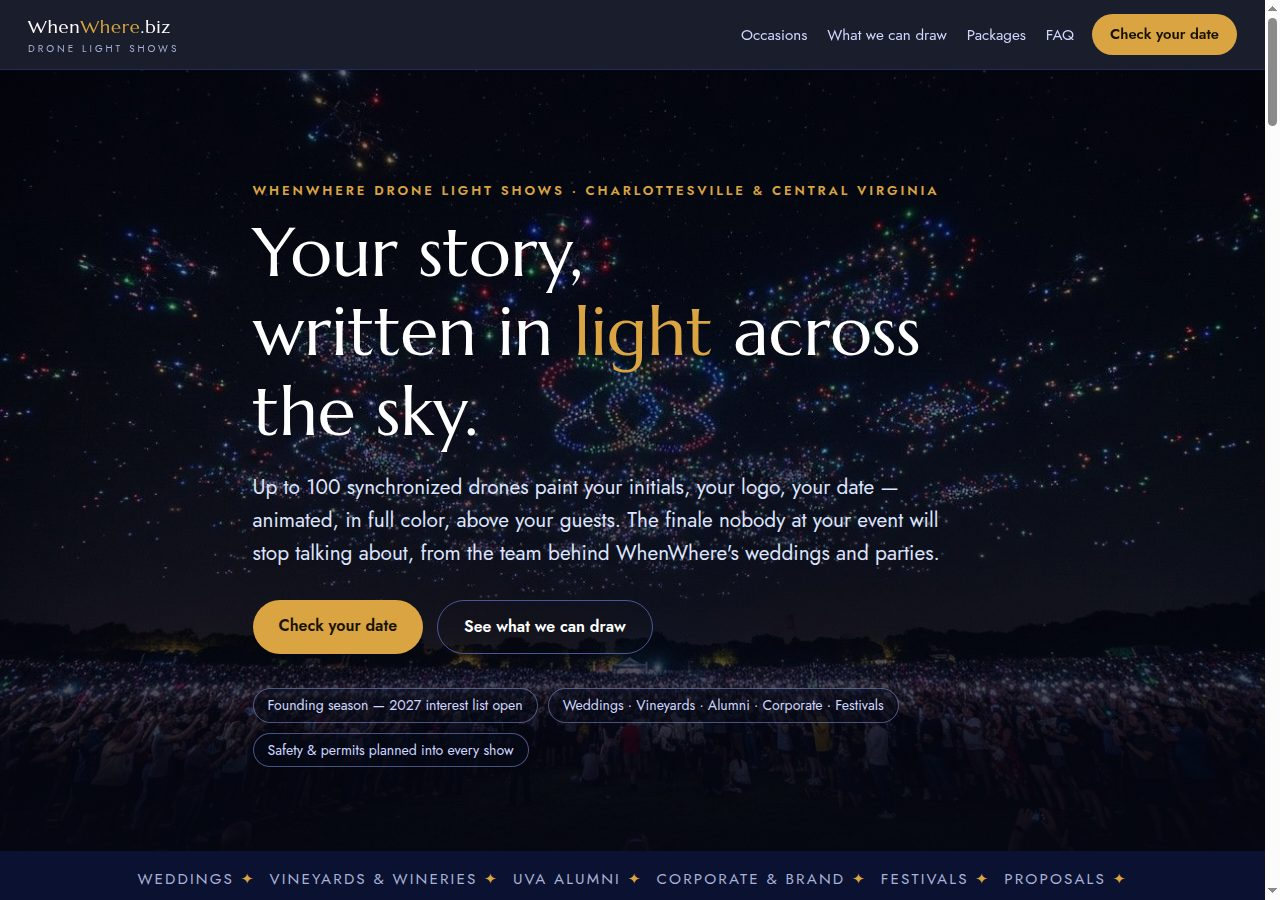
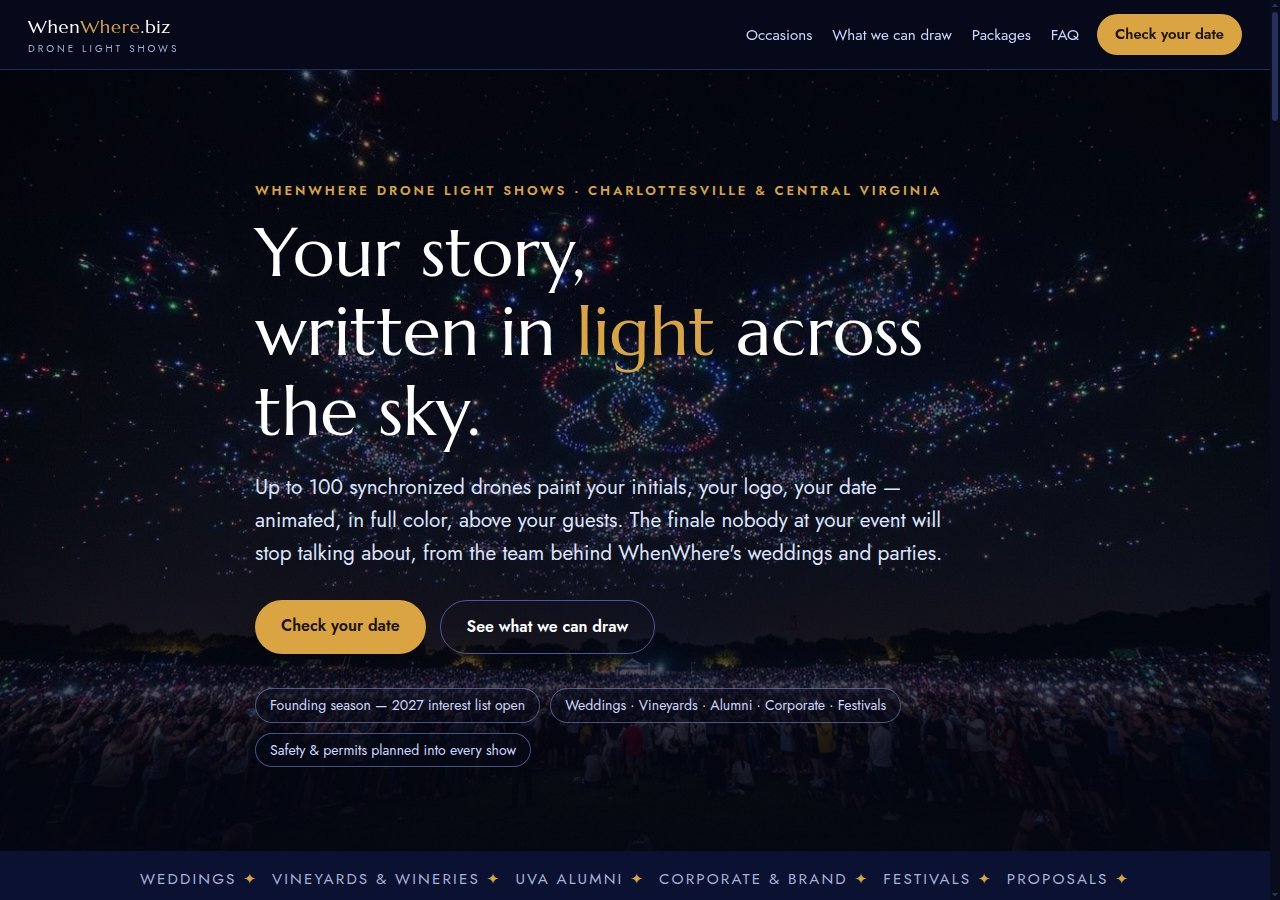
README refresh + hero re-capture (no version bump)
docs/screenshots/hero.jpg re-captured from the current page at
1280x900 in dark mode, so it shows the themed scrollbar (v1.4.1)
instead of the old default one.

README: the Configuration and form-setup sections now point at
config.js (where WHENWHERE_CONFIG has lived since v1.4.3, not
studio.js); the file tree says 45 geometry assertions, not 26; the
Description lists config.js with current file sizes; the build
description says node --check runs on both config.js and studio.js
and the geometry tests are no longer 'planned'; the hero-capture
note records the dark-mode capture. CHANGELOG: the LOVE split in
the v1.4.6/v1.4.7 entries is corrected to 16/38/22/24 (the E share
was misstated as 25). No page change.

diff --git a/README.md b/README.md
@@ -15,8 +15,9 @@ the latest deploy went green.
 
 ## Description
 
-A single static page (`index.html`, ~42 KB) plus `studio.js` (~32 KB,
-the page's JavaScript), no framework, no build step to view it) with:
+A single static page (`index.html`, ~43 KB) plus `studio.js` (~44 KB,
+the page's JavaScript) and `config.js` (~2 KB, the launch settings),
+no framework, no build step to view it) with:
 
 - **Hero + six occasion cards** — weddings, vineyards & wineries,
   corporate, festivals, alumni, proposals & private estates.
@@ -141,19 +142,20 @@ in [CHANGELOG.md](CHANGELOG.md). To release a new version, bump that
 comment in `index.html` and add a section to the changelog.
 
 The page's JavaScript lives in `studio.js` — the Formation Studio, the
-inquiry form, the package shortcuts, and the mobile nav. Edit it there,
+inquiry form, the package shortcuts, and the mobile nav — with the
+launch settings in `config.js` (loaded before it). Edit them there,
 never inline: `index.html` carries no inline executable script (only
 the JSON-LD data block), and the build fails if one appears, because
 the page's Content Security Policy allows `script-src 'self'` only.
 The policy also covers the Google Fonts stylesheet (`style-src`), the
 font files (`font-src`), and the form's POST (`connect-src` for the
 Apps Script endpoints). The pure geometry functions are exposed as
-`window.WHENWHERE.geometry` for the planned unit tests.
+`window.WHENWHERE.geometry` and covered by the geometry unit tests.
 
 The build fails loudly (non-zero exit) on a missing or corrupt photo,
-and it validates the result: it runs `studio.js` through
-`node --check` when Node is available and asserts the fleet counts are
-present. A rebuild with nothing changed is a no-op. Run it from any
+and it validates the result: it runs both `config.js` and `studio.js`
+through `node --check` when Node is available and asserts the fleet
+counts are present in `config.js`. A rebuild with nothing changed is a no-op. Run it from any
 directory — paths resolve from the script's own location.
 
 ### Tests
@@ -207,23 +209,28 @@ positions), cropped to the stage. The hero still is a plain headless
 screenshot of the top of the page at 1280×900, served over a local
 server so the photo and fonts load — capture it against `file://` and
 the hero photo comes out as a broken image (that is what the old
-`hero.png` showed).
+`hero.png` showed). Capture it in dark mode (the page follows the OS;
+the README's hero is the dark rendering, which is where the themed
+scrollbar shows).
 
 ### Configuration — the two things to set before launch
 
-Everything launch-specific lives in one place, `WHENWHERE_CONFIG`, near
-the top of `studio.js`:
+Everything launch-specific lives in one place, `WHENWHERE_CONFIG`, in
+`config.js` (loaded before `studio.js`, which reads it and fails loudly
+if it is missing):
 
 ```js
-var WHENWHERE_CONFIG = {
-  // the deployed Apps Script Web app URL — set in studio.js
+window.WHENWHERE_CONFIG = {
+  // the deployed Apps Script Web app URL — set in config.js
   INQUIRY_ENDPOINT: '<the deployed Apps Script Web app URL>'
+  // ... plus FLEET, COLORS, PALETTES, COOLDOWN_MS, INQUIRY_KEY,
+  // DATE_MIN_DAYS_AHEAD, DATE_MIN_FLOOR — see config.js
 };
 ```
 
 The endpoint is connected: the live form saves to the private Sheet and
 emails you. If the Apps Script deployment is ever replaced, paste the
-new URL as `INQUIRY_ENDPOINT` in `studio.js` and push.
+new URL as `INQUIRY_ENDPOINT` in `config.js` and push.
 
 - **No business inbox is set up yet**, so the page lists no email address:
   the brand and footer link to the main site
@@ -272,7 +279,7 @@ works fine on Pages in the meantime).
 ## Connecting the inquiry form (Apps Script)
 
 Same setup as the main site — and it is connected: `INQUIRY_ENDPOINT`
-is set in `studio.js`, so the live form saves to the private Sheet
+is set in `config.js`, so the live form saves to the private Sheet
 and emails you. The steps below are the record of how it was connected
 (and how to redo it if the deployment is ever replaced). With no
 endpoint configured the form falls back to **demo mode**: submitting
@@ -290,7 +297,7 @@ endpoint is connected yet…"). To connect (or reconnect):
    several addresses separated by commas.
 4. **Deploy → New deployment → Web app** — Execute as: Me, Who has
    access: Anyone. Copy the Web app URL.
-5. In `studio.js`, find `WHENWHERE_CONFIG` and paste the URL as
+5. In `config.js`, find `WHENWHERE_CONFIG` and paste the URL as
    `INQUIRY_ENDPOINT`.
 6. Rebuild (`python3 tools/build.py`) and push to `main` — the workflow
    rebuilds, smoke-tests, and redeploys automatically — then submit a
@@ -392,7 +399,7 @@ whenwhere-drone-light-shows/
 │   └── screenshots/            # hero, formation stills, assembly GIF (for this README)
 ├── tests/
 │   ├── smoke.mjs               # CDP smoke test: formation counts, labels, JS errors
-│   ├── geometry.mjs            # CDP unit tests: pure geometry, 26 assertions
+│   ├── geometry.mjs            # CDP unit tests: pure geometry, 45 assertions
 │   └── capture-assembly.mjs    # CDP frame capture for the assembly GIF
 ├── CHANGELOG.md                # one line per shipped change, dated
 ├── README.md

diff --git a/CHANGELOG.md b/CHANGELOG.md
@@ -12,10 +12,11 @@ at the top of `index.html` and add a section below.
 ## Docs — 2026-11-20 (no version bump)
 
 - 2026-11-20 — The word readability floor is now recorded in `docs/readability-floor.md` (with the probe renders in `docs/readability-floor/`): 25px spacing is the minimum at which a letter still reads (30px loses short features, 40px breaks letters), with a per-letter table for all A–Z + 0–9 (I needs 5 dots, Q needs 20) and per-word totals showing the 100-drone budget clears the floor for every probed word but only buys the dense 15px level for words of 4 glyphs or fewer. No page change.
+- 2026-11-20 — README refresh: the hero still (`docs/screenshots/hero.jpg`) is re-captured from the current page at 1280×900 in dark mode, so it shows the themed scrollbar (v1.4.1) instead of the old default one; the Configuration and form-setup sections now point at `config.js` (where `WHENWHERE_CONFIG` has lived since v1.4.3, not `studio.js`); the file tree says 45 geometry assertions, not 26; the Description lists `config.js` with current file sizes; and the LOVE split in the v1.4.6/v1.4.7 entries is corrected to 16/38/22/24 (the E share was misstated as 25). No page change.
 
 ## v1.4.7 — 2026-11-20
 
-- 2026-11-20 — Word skeletons are sampled at 2px instead of 4px (`SAMPLE_STEP`, next to `MIN_DOT_GAP` in studio.js): the raster grid is 4x denser, so the thinned centerline follows curves and diagonals more closely — the O reads rounder, the V arms straighter. The dots are 8.4px wide with a 12px glow, so the gain is subtle rather than dramatic; the measured cost is ~2ms per keystroke (MARRY ME 5.7 → 7.5ms median) and every other metric is unchanged (LOVE still 16/38/22/25, closest pair 10.48px, IW 10/40, MARRY ME gaps 104/61). All 45 geometry assertions pass with no threshold changes.
+- 2026-11-20 — Word skeletons are sampled at 2px instead of 4px (`SAMPLE_STEP`, next to `MIN_DOT_GAP` in studio.js): the raster grid is 4x denser, so the thinned centerline follows curves and diagonals more closely — the O reads rounder, the V arms straighter. The dots are 8.4px wide with a 12px glow, so the gain is subtle rather than dramatic; the measured cost is ~2ms per keystroke (MARRY ME 5.7 → 7.5ms median) and every other metric is unchanged (LOVE still 16/38/22/24, closest pair 10.48px, IW 10/40, MARRY ME gaps 104/61). All 45 geometry assertions pass with no threshold changes.
 
 ## Test harness — 2026-11-20 (no version bump)
 
@@ -23,7 +24,7 @@ at the top of `index.html` and add a section below.
 
 ## v1.4.6 — 2026-11-19
 
-- 2026-11-19 — Word density + separation: the dot budget is now split across glyphs in proportion to their stroke lengths (`allocateCounts`, by skeleton pixel count) instead of equally, so a wide letter gets more drones than a narrow one — LOVE goes from 25/25/25/25 to 16/38/22/25 and every glyph sits at ~11px spacing. Dots are then pushed apart to a 10.5px minimum gap (`separatePoints`, 2.5x the 4.2px drone radius, repeated until settled), so the packed L stem and the V-arm clumps open up; LOVE's closest pair went from 8px to 10.45px. No behavior change to counts (still exactly 50–100) or to the space gap. Geometry tests 36 → 45: the MARRY ME gap test now finds the gap as the largest jump in sorted x (glyph boundaries move with the split), plus allocateCounts / separatePoints / IW-split / LOVE-minimum-distance assertions, with thresholds probed in both fonts (Marcellus and the fallback serif).
+- 2026-11-19 — Word density + separation: the dot budget is now split across glyphs in proportion to their stroke lengths (`allocateCounts`, by skeleton pixel count) instead of equally, so a wide letter gets more drones than a narrow one — LOVE goes from 25/25/25/25 to 16/38/22/24 and every glyph sits at ~11px spacing. Dots are then pushed apart to a 10.5px minimum gap (`separatePoints`, 2.5x the 4.2px drone radius, repeated until settled), so the packed L stem and the V-arm clumps open up; LOVE's closest pair went from 8px to 10.45px. No behavior change to counts (still exactly 50–100) or to the space gap. Geometry tests 36 → 45: the MARRY ME gap test now finds the gap as the largest jump in sorted x (glyph boundaries move with the split), plus allocateCounts / separatePoints / IW-split / LOVE-minimum-distance assertions, with thresholds probed in both fonts (Marcellus and the fallback serif).
 
 ## v1.4.5 — 2026-11-19
 
